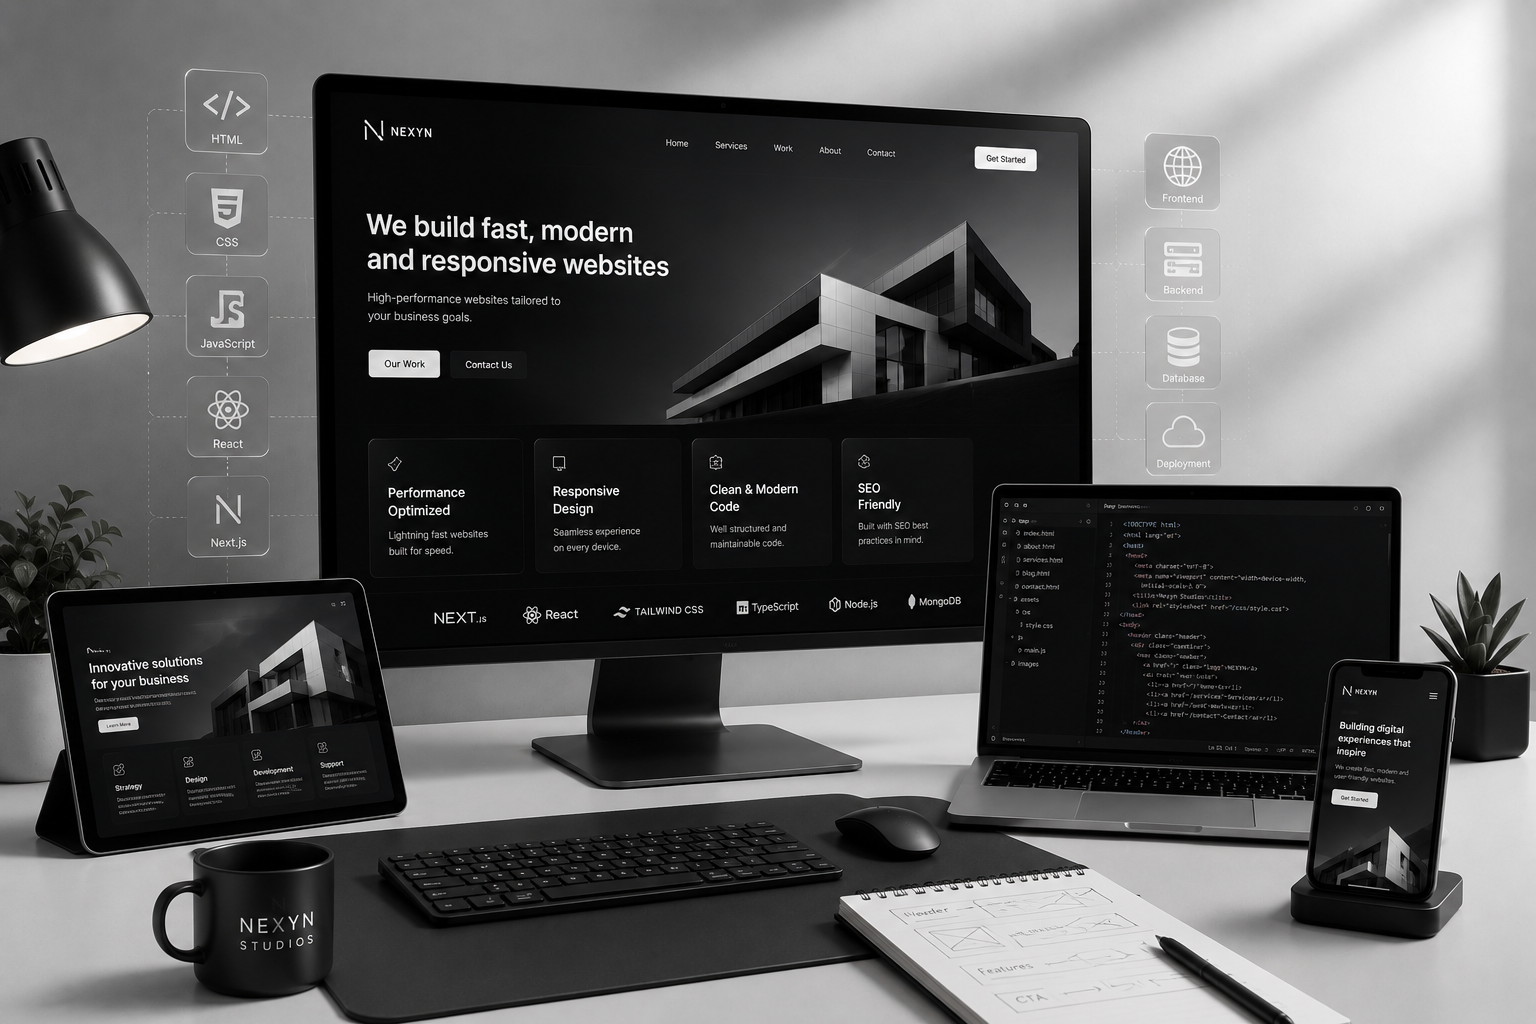
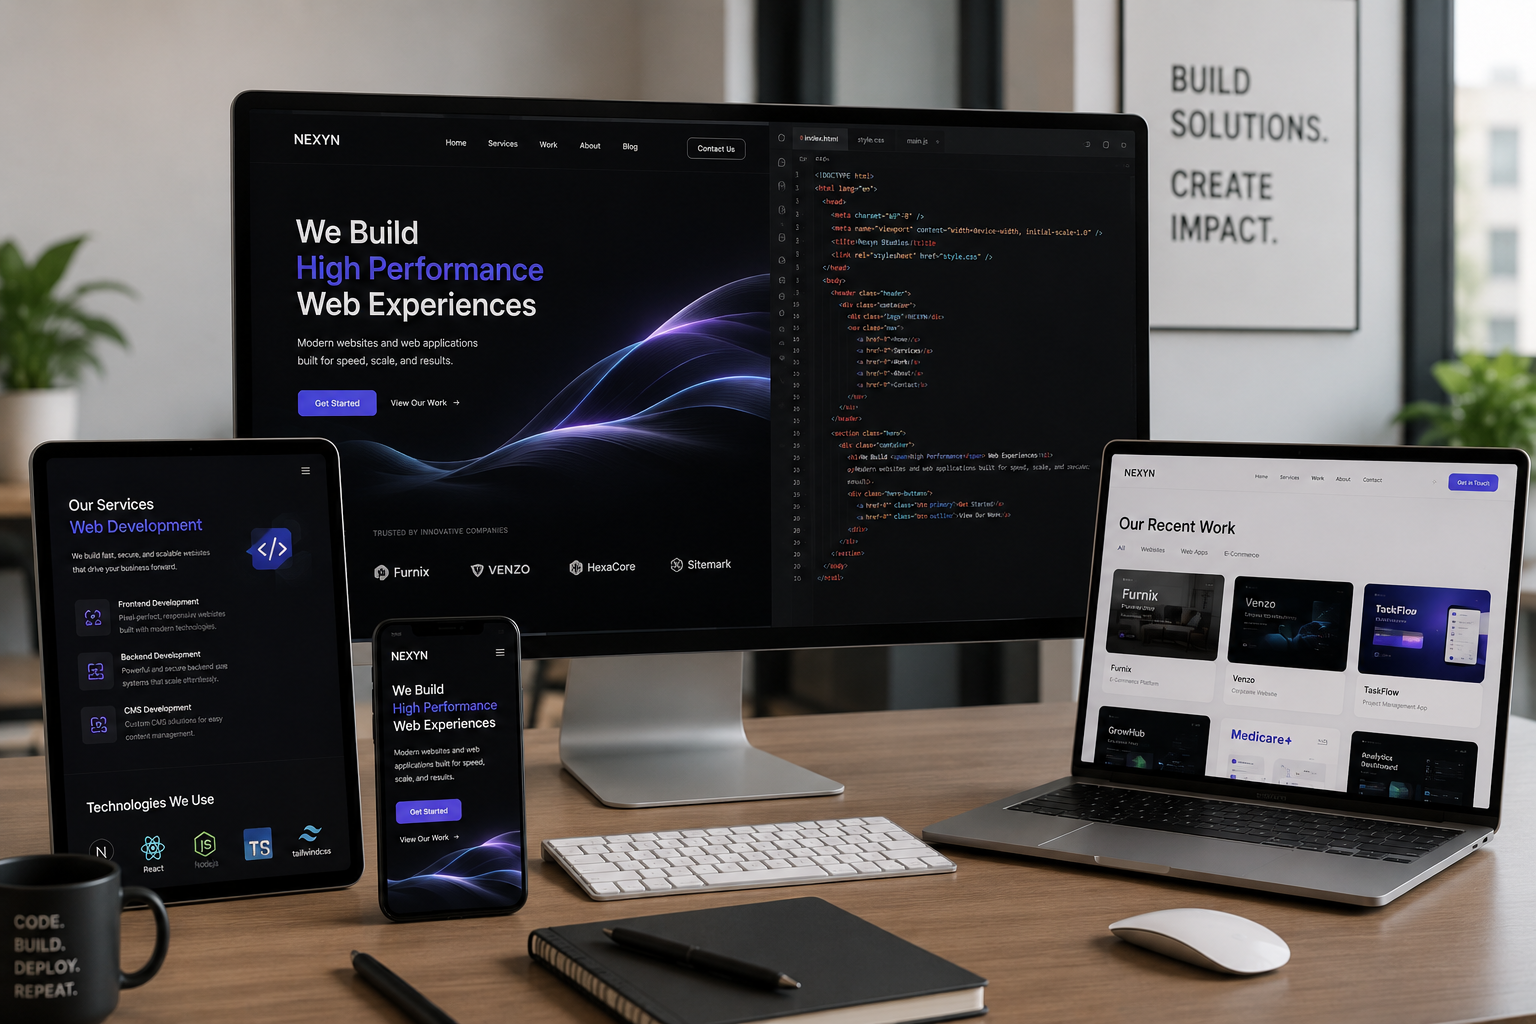
style: completely redesign services section into a modern bento grid with asymmetric cards

diff --git a/components/sections/services.tsx b/components/sections/services.tsx
@@ -21,10 +21,10 @@ import { useInView } from "@/hooks/use-interactions";
 import { cn } from "@/lib/utils";
 
 // ── Image imports ─────────────────────────────────────────────────────────────
-import imgSoftware from "@/assets/service/Custom-Software-Development.png";
-import imgDesign from "@/assets/service/UI-UX-Design.png";
+import imgSoftware from "@/assets/service/Custom-Software.png";
+import imgDesign from "@/assets/service/UI&UX-Design.png";
 import imgWeb from "@/assets/service/Web-Development.png";
-import imgMobile from "@/assets/service/Mobile-App-Development.png";
+import imgMobile from "@/assets/service/Mobile-Apps.png";
 import imgCloud from "@/assets/service/Cloud-DevOps.png";
 import imgMarketing from "@/assets/service/Digital-Marketing.png";
 
@@ -148,69 +148,79 @@ function ServicesBg() {
   );
 }
 
-function ServiceCard({ s, onClick }: { s: (typeof SERVICES)[0], onClick: () => void }) {
+function ServiceCard({ s, onClick, index }: { s: (typeof SERVICES)[0], onClick: () => void, index: number }) {
   const Icon = s.icon;
+  // Create an asymmetric bento grid layout
+  const isLarge = index === 0 || index === 3 || index === 4;
+  const isReversed = index === 3; // Flip the layout of one of the large cards for visual variety
 
   return (
     <motion.article
       variants={fadeUp}
       onClick={onClick}
-      className="group flex cursor-pointer flex-col overflow-hidden rounded-2xl border border-border/40 bg-foreground/[0.01] transition-all duration-300 hover:-translate-y-1 hover:border-border/80 hover:bg-foreground/[0.02] hover:shadow-xl"
+      className={cn(
+        "group relative flex cursor-pointer overflow-hidden rounded-[2.5rem] border border-border/40 bg-foreground/[0.01] transition-all duration-500 hover:-translate-y-1 hover:border-border/80 hover:bg-foreground/[0.02] hover:shadow-2xl",
+        isLarge ? "md:col-span-2 flex-col md:flex-row" : "col-span-1 flex-col",
+        isReversed && isLarge ? "md:flex-row-reverse" : ""
+      )}
     >
-      {/* ── Image: fixed 220px height, object-cover ── */}
-      <div className="relative h-[220px] w-full overflow-hidden bg-muted/10">
+      {/* ── Image Container ── */}
+      <div className={cn(
+        "relative shrink-0 overflow-hidden bg-muted/10 flex items-center justify-center",
+        isLarge ? "h-[300px] md:h-auto md:w-1/2" : "h-[280px] w-full"
+      )}>
+        {/* Subtle glow behind image */}
+        <div className="absolute inset-0 bg-gradient-to-br from-foreground/5 to-transparent opacity-50" />
         <Image
           src={s.img}
           alt={s.imgAlt}
           fill
-          className="object-cover object-top transition-transform duration-700 ease-out group-hover:scale-105"
-          sizes="(max-width: 640px) 100vw, (max-width: 1024px) 50vw, 33vw"
+          className="object-contain p-6 transition-transform duration-700 ease-out group-hover:scale-110"
+          sizes={isLarge ? "(max-width: 768px) 100vw, 50vw" : "(max-width: 768px) 100vw, 33vw"}
         />
-        {/* Subtle gradient overlay at the bottom of the image for contrast */}
-        <div className="absolute inset-0 bg-gradient-to-t from-background via-transparent to-transparent opacity-40" />
       </div>
 
-      {/* ── Content ─────────────────────────────────────────── */}
-      <div className="flex flex-1 flex-col p-6">
+      {/* ── Content Container ─────────────────────────────────────────── */}
+      <div className={cn(
+        "flex flex-1 flex-col p-8 sm:p-10",
+        isLarge ? "justify-center" : ""
+      )}>
 
         {/* Icon + tag */}
-        <div className="mb-4 flex items-center justify-between">
-          <div className="flex items-center gap-3">
-            <div className="flex h-9 w-9 shrink-0 items-center justify-center rounded-lg bg-foreground/[0.05]">
-              <Icon className="h-4 w-4 text-foreground/80" />
-            </div>
-            <span className="text-[10px] font-bold uppercase tracking-[0.14em] text-muted-foreground">
-              {s.tag}
-            </span>
+        <div className="mb-6 flex items-center gap-4">
+          <div className="flex h-12 w-12 shrink-0 items-center justify-center rounded-2xl bg-background border border-border/40 shadow-sm transition-transform duration-500 group-hover:scale-110 group-hover:border-foreground/20">
+            <Icon className="h-5 w-5 text-foreground/80 transition-colors group-hover:text-foreground" />
           </div>
+          <span className="text-[11px] font-bold uppercase tracking-[0.16em] text-muted-foreground/80">
+            {s.tag}
+          </span>
         </div>
 
         {/* Title */}
-        <h3 className="mb-2 text-[19px] font-bold leading-snug tracking-tight text-foreground">
+        <h3 className="mb-4 text-2xl font-bold leading-snug tracking-tight text-foreground sm:text-3xl">
           {s.title}
         </h3>
 
         {/* Description */}
-        <p className="mb-6 text-[13px] leading-[1.6] text-muted-foreground line-clamp-3">
+        <p className="mb-8 text-[15px] leading-[1.6] text-muted-foreground line-clamp-3">
           {s.desc}
         </p>
 
         {/* Bottom Area: Pills & Arrow Button */}
-        <div className="mt-auto flex items-center justify-between border-t border-border/30 pt-4">
-          <div className="flex flex-wrap gap-1.5">
-            {s.caps.slice(0, 2).map((cap) => (
+        <div className="mt-auto flex items-center justify-between border-t border-border/30 pt-6">
+          <div className="flex flex-wrap gap-2">
+            {s.caps.slice(0, isLarge ? 3 : 2).map((cap) => (
               <span
                 key={cap}
-                className="rounded-md bg-foreground/[0.03] px-2.5 py-1 text-[10px] font-semibold text-muted-foreground"
+                className="rounded-lg bg-foreground/[0.03] border border-border/40 px-3 py-1.5 text-[11px] font-semibold text-muted-foreground transition-colors group-hover:border-foreground/20 group-hover:text-foreground"
               >
                 {cap}
               </span>
             ))}
           </div>
           
-          {/* Prominent Arrow Button */}
-          <div className="flex h-8 w-8 items-center justify-center rounded-full bg-foreground/10 text-foreground transition-all duration-300 group-hover:bg-foreground group-hover:text-background">
-            <ArrowUpRight className="h-4 w-4 transition-transform duration-300 group-hover:translate-x-0.5 group-hover:-translate-y-0.5" />
+          <div className="flex h-10 w-10 shrink-0 items-center justify-center rounded-full bg-foreground/5 text-foreground transition-all duration-300 group-hover:bg-foreground group-hover:text-background group-hover:shadow-md">
+            <ArrowUpRight className="h-5 w-5 transition-transform duration-300 group-hover:translate-x-0.5 group-hover:-translate-y-0.5" />
           </div>
         </div>
       </div>
@@ -263,12 +273,13 @@ export function ServicesSection() {
             </p>
           </motion.div>
 
-          {/* ── 3-column grid, all 6 services ───────────────────── */}
-          <div className="grid grid-cols-1 gap-6 sm:grid-cols-2 lg:grid-cols-3">
-            {SERVICES.map((s) => (
+          {/* ── Bento Grid, all 6 services ───────────────────── */}
+          <div className="grid grid-cols-1 gap-6 md:grid-cols-2 lg:grid-cols-3">
+            {SERVICES.map((s, i) => (
               <ServiceCard 
                 key={s.key} 
                 s={s} 
+                index={i}
                 onClick={() => setSelectedService(s)} 
               />
             ))}
@@ -288,7 +299,7 @@ export function ServicesSection() {
               onClick={() => setSelectedService(null)}
               className="fixed inset-0 z-50 bg-background/80 backdrop-blur-sm"
             />
-            
+
             {/* Modal Container */}
             <div className="fixed inset-0 z-50 flex items-center justify-center p-4 sm:p-6 lg:p-8 pointer-events-none">
               <motion.div
@@ -307,16 +318,16 @@ export function ServicesSection() {
                 </button>
 
                 {/* Left Side: Image */}
-                <div className="relative h-[250px] w-full shrink-0 bg-muted/10 lg:h-auto lg:w-[45%]">
+                <div className="relative h-[320px] w-full shrink-0 bg-muted/10 lg:h-auto lg:w-[45%]">
                   <Image
                     src={selectedService.img}
                     alt={selectedService.imgAlt}
                     fill
-                    className="object-cover object-top"
+                    className="object-contain p-4 lg:p-6"
                     sizes="(max-width: 1024px) 100vw, 45vw"
                   />
                   <div className="absolute inset-0 bg-gradient-to-t from-background to-transparent opacity-80 lg:bg-gradient-to-r" />
-                  
+
                   {/* Floating badge on image */}
                   <div className="absolute bottom-6 left-6 inline-flex items-center gap-2 rounded-full border border-border/20 bg-background/50 px-4 py-1.5 text-[12px] font-semibold uppercase tracking-[0.12em] text-foreground backdrop-blur-md">
                     <selectedService.icon className="h-4 w-4" />
@@ -329,22 +340,22 @@ export function ServicesSection() {
                   <h3 className="mb-4 text-2xl sm:text-3xl font-bold tracking-tight text-foreground">
                     {selectedService.title}
                   </h3>
-                  
+
                   <p className="mb-8 text-[15px] leading-relaxed text-muted-foreground">
                     {selectedService.desc}
                   </p>
-                  
+
                   <h4 className="mb-5 text-[12px] font-bold uppercase tracking-[0.15em] text-foreground">
                     Core Capabilities & Features
                   </h4>
-                  
+
                   <ul className="mb-10 flex flex-col gap-4">
                     {selectedService.features.map((feature, i) => (
-                      <motion.li 
+                      <motion.li
                         initial={{ opacity: 0, x: -10 }}
                         animate={{ opacity: 1, x: 0 }}
                         transition={{ delay: 0.2 + i * 0.05 }}
-                        key={i} 
+                        key={i}
                         className="flex items-start gap-3"
                       >
                         <CheckCircle2 className="mt-0.5 h-5 w-5 shrink-0 text-foreground" />
@@ -356,8 +367,8 @@ export function ServicesSection() {
                   </ul>
 
                   <div className="mt-auto pt-6 border-t border-border/30">
-                    <a 
-                      href="#contact" 
+                    <a
+                      href="#contact"
                       onClick={() => setSelectedService(null)}
                       className="inline-flex w-full sm:w-auto items-center justify-center gap-2 rounded-full bg-foreground px-8 py-3.5 text-[14px] font-semibold text-background transition-all hover:bg-foreground/90 hover:shadow-lg"
                     >